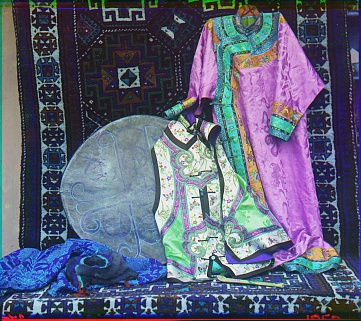
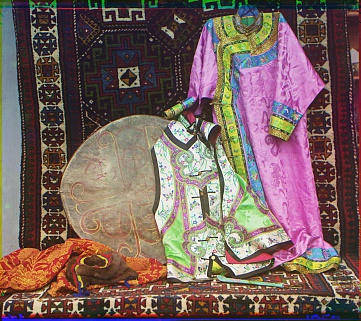
BGR

diff --git a/lab2.py b/lab2.py
@@ -20,12 +20,12 @@ def get_color_image(image):
 	h = int(image.shape[0]/3)
 	w = image.shape[1]
 
-	color_img = np.zeros((h,w,3))
+	color_img = np.zeros((h,w,3),dtype='uint8')
 	
 	for i in range(0,3):
-		color_img[:,:,2-i] = image[h*i:h*(i+1),:]
+		color_img[:,:,i] = image[h*i:h*(i+1),:]
 
-	#return as RGB
+	#return as BGR
 	return color_img
 
 def remove_margins(image,x_margin,y_margin):
@@ -58,15 +58,16 @@ def align_image2template(i,t,displacement):
 
 def photoplate2color(image,displacement):
 	
-	r = image[:,:,0]
+	b = image[:,:,0]
 	g = image[:,:,1]
-	b = image[:,:,2]
+	r = image[:,:,2]
+
 
 	color = np.zeros_like(img_channels)
 
-	color[:,:,0] = align_image2template(r,g,displacement)
+	color[:,:,0] = align_image2template(b,g,displacement)
 	color[:,:,1] = g
-	color[:,:,2] = align_image2template(b,g,displacement)
+	color[:,:,2] = align_image2template(r,g,displacement)
 
 
 
@@ -81,7 +82,7 @@ def write_image(name, subname, image, out_folder):
 	return
 
 ds_folder = "images"
-displacement = 25
+displacement = 20
 x_margin_percent = 0.03
 y_margin_percent = 0.05
 
@@ -95,7 +96,7 @@ for name, image in images.items():
 	color_img = photoplate2color(img_channels,displacement)
 	time = t.time() - time
 
-	write_image(name,"_cn", img_channels, ds_folder + "/output/")
+	write_image(name,"_3channel", img_channels, ds_folder + "/output/")
 	write_image(name,"_color", color_img, ds_folder + "/output/")
 
 	print("Elapsed time: ", time)
